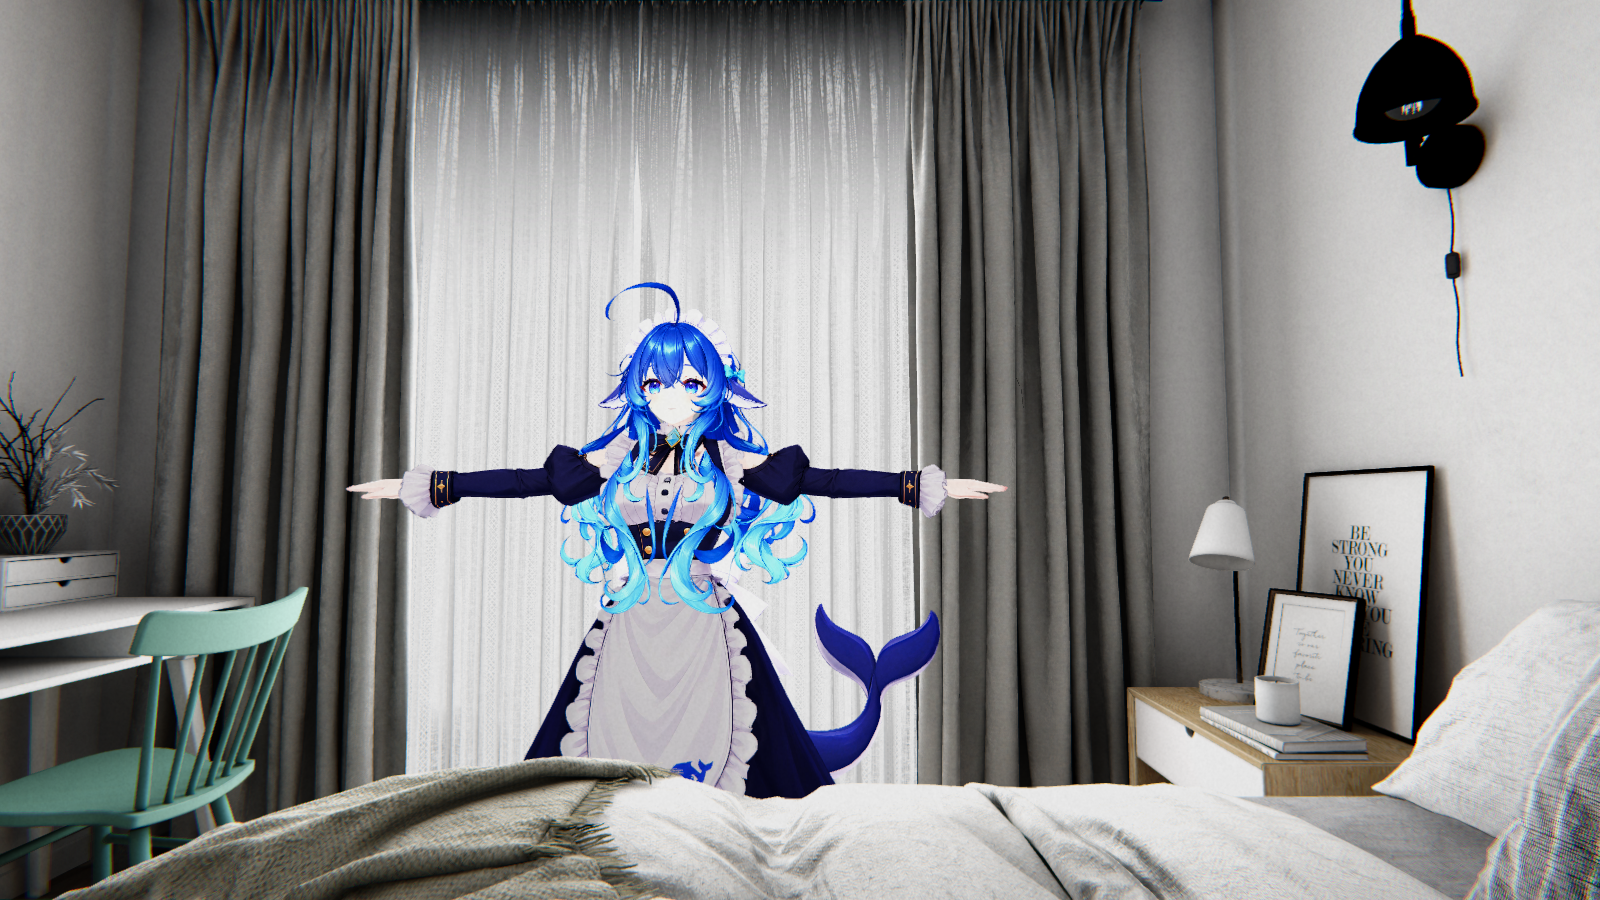
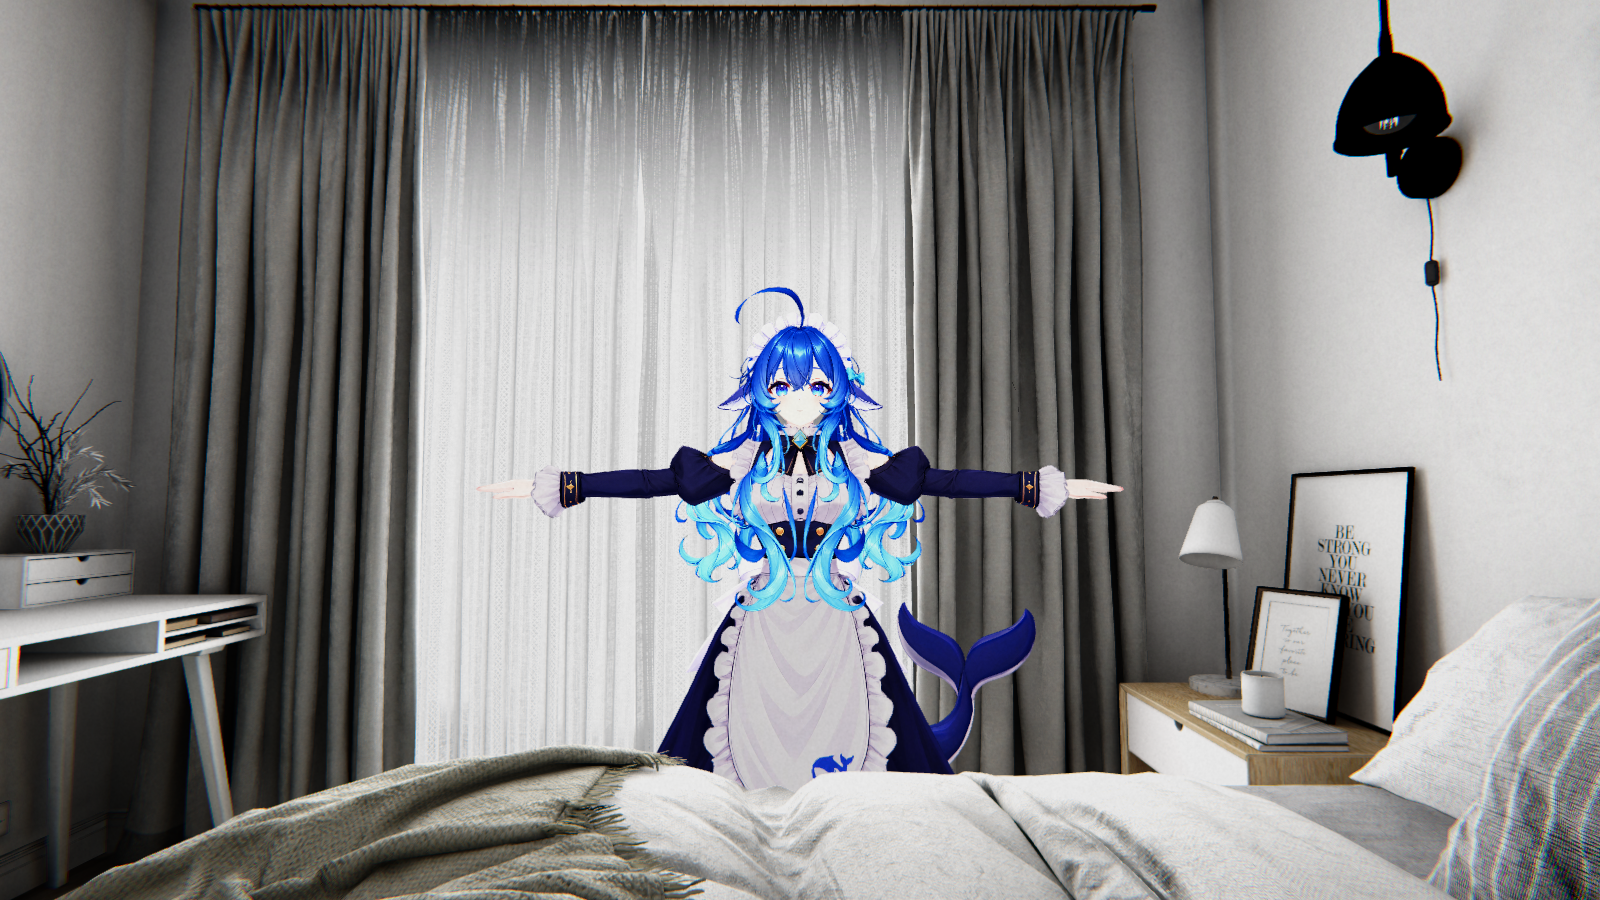
fix(scene): 锚点拉开 + 收起椅子与靠垫 + 日志记录 NPC 与相机坐标
- 锚点只留窗带上真能走到的 4 个：desk(2.12,3.62) / window(2.40,3.45) / bed(2.95,3.32) / front(3.53,3.20)
  去掉 door（门口在房间另一侧，跨不过床，放上去只会走到墙角）
- window 与 front 从 0.38m 拉开到 1.16m，过来才有可见位移
- 椅子暂时收起（先验证没椅子时她能不能走到床边，再决定怎么摆）
- 地面靠垫（含 LOD 副本）收起：怎么摆都会与床面穿插或悬空
- 玩家机位压到 0.90m 视线（更像躺着），走动关闭（房间没有站位）
- GameLog 的 anim 事件补记 npc 与 camera 世界坐标，便于判断她到底动没动

diff --git a/DawnAndDusk/Assets/Editor/ApartmentSceneBuilder.cs b/DawnAndDusk/Assets/Editor/ApartmentSceneBuilder.cs
@@ -18,9 +18,9 @@ public static class ApartmentSceneBuilder
     const string VrmPath = "Assets/Characters/DeepSeekChan/DeepSeek-chan.vrm";
     static readonly string OutDir = Path.Combine(Application.dataPath, "../dsh-apartment-shots");
 
-    // 玩家躺在床上（床身 z 0.90~3.14 的南半部，离窗 2.1m），起身后站到床沿北侧的窗带里
-    static readonly Vector3 PlayerPos = new Vector3(3.53f, 0.05f, 1.55f);
-    static readonly Vector3 PlayerEuler = new Vector3(-6f, 0f, 0f);
+    // 玩家躺在床上（床身 z 0.90~3.14 的南半部），视线高度 0.90m 更像躺着
+    static readonly Vector3 PlayerPos = new Vector3(3.53f, 0.05f, 1.50f);
+    static readonly Vector3 PlayerEuler = new Vector3(-2f, 0f, 0f);
     static readonly Vector3 StandUpPos = new Vector3(3.53f, 0.05f, 3.28f);
 
     /// <summary>目标身高（米）：玩家 175cm → 站立视线 163cm；鲸鲸 162cm。</summary>
@@ -39,16 +39,15 @@ public static class ApartmentSceneBuilder
     {
     // 锚点全部放在"窗带"（床北侧 z≈3.2~3.5 的那条带，宽约 0.5m、长 2m）——
     // 绕床走位在物理上不成立（家具比房间还宽），所以改用"她本来就在窗前"的设定
-        new AnchorSpec { id = "front",  name = "床头边", desc = "你头侧的床沿，贴身说话的位置",   pos = new Vector3(3.30f, 0f, 3.22f) },
-        new AnchorSpec { id = "bed",    name = "床沿",   desc = "床北侧，靠窗的床沿",             pos = new Vector3(2.55f, 0f, 3.30f) },
-        new AnchorSpec { id = "desk",   name = "书桌边", desc = "靠西墙的书桌",                   pos = new Vector3(2.10f, 0f, 3.62f) },
-        new AnchorSpec { id = "window", name = "窗中",   desc = "落地窗正前方",                   pos = new Vector3(3.60f, 0f, 3.45f) },
-        new AnchorSpec { id = "door",   name = "窗带东端", desc = "窗带东侧，靠近门口方向",       pos = new Vector3(4.40f, 0f, 3.40f) },
+        new AnchorSpec { id = "front",  name = "床头边", desc = "你头侧的床沿，贴身说话的位置",   pos = new Vector3(3.53f, 0f, 3.20f) },
+        new AnchorSpec { id = "bed",    name = "床沿",   desc = "床北侧，靠窗的床沿",             pos = new Vector3(2.95f, 0f, 3.32f) },
+        new AnchorSpec { id = "desk",   name = "书桌边", desc = "靠西墙的书桌",                   pos = new Vector3(2.12f, 0f, 3.62f) },
+        new AnchorSpec { id = "window", name = "窗前",   desc = "落地窗西侧",                     pos = new Vector3(2.40f, 0f, 3.45f) },
     };
 
     static readonly (string a, string b)[] Edges =
     {
-        ("desk", "bed"), ("bed", "front"), ("front", "window"), ("window", "door"),
+        ("desk", "window"), ("window", "bed"), ("bed", "front"),
     };
 
     /// <summary>
@@ -60,8 +59,12 @@ public static class ApartmentSceneBuilder
     {
         var moved = 0;
 
-        // 掉在地上的两个靠垫直接收起来（怎么摆都容易和床面穿插/悬空），书桌椅子保持原样
-        var hide = new[] { "Bed_Bedroom_Pillow6", "Bed_Bedroom_Pillow7" };
+        // 掉在地上的两个靠垫直接收起来（怎么摆都容易和床面穿插/悬空）
+        // 椅子暂时也收起：先验证"没有椅子她能不能走到床边"，再决定怎么摆
+        var hide = new[]
+        {
+            "Bed_Bedroom_Pillow6", "Bed_Bedroom_Pillow7", "Chair_Norraryd",
+        };
         var hidden = 0;
         foreach (var t in Object.FindObjectsOfType<Transform>())
         {

diff --git a/DawnAndDusk/Assets/Scripts/Core/PlayerController.cs b/DawnAndDusk/Assets/Scripts/Core/PlayerController.cs
@@ -20,6 +20,9 @@ public class PlayerController : MonoBehaviour
     [Tooltip("开局是否躺在床上（碰撞体先关掉，按移动键时瞬移到床边并启用碰撞）")]
     public bool startSeated = true;
 
+    [Tooltip("是否允许走动。房间没有站位时可关掉，只保留环视")]
+    public bool allowMovement = true;
+
     [Tooltip("起身后站定的位置（世界坐标，必须是空地）")]
     public Vector3 standUpPosition;
 
@@ -51,7 +54,7 @@ public class PlayerController : MonoBehaviour
     void Update()
     {
         var input = new Vector2(Input.GetAxisRaw("Horizontal"), Input.GetAxisRaw("Vertical"));
-        var moving = input.sqrMagnitude > 0.01f;
+        var moving = allowMovement && input.sqrMagnitude > 0.01f;
 
         if (_seated && moving)
         {

diff --git a/DawnAndDusk/Assets/Scripts/Characters/NpcAnimationDriver.cs b/DawnAndDusk/Assets/Scripts/Characters/NpcAnimationDriver.cs
@@ -112,7 +112,9 @@ public class NpcAnimationDriver : MonoBehaviour
                 "trans", inTransition ? "1" : "0",
                 "next", next,
                 "moving", npc.IsMoving ? "1" : "0",
-                "braking", npc.IsBraking ? "1" : "0");
+                "braking", npc.IsBraking ? "1" : "0",
+                "pos", $"{npc.transform.position.x:F2},{npc.transform.position.z:F2}",
+                "cam", $"{Camera.main.transform.position.x:F2},{Camera.main.transform.position.z:F2}");
         }
     }
 
